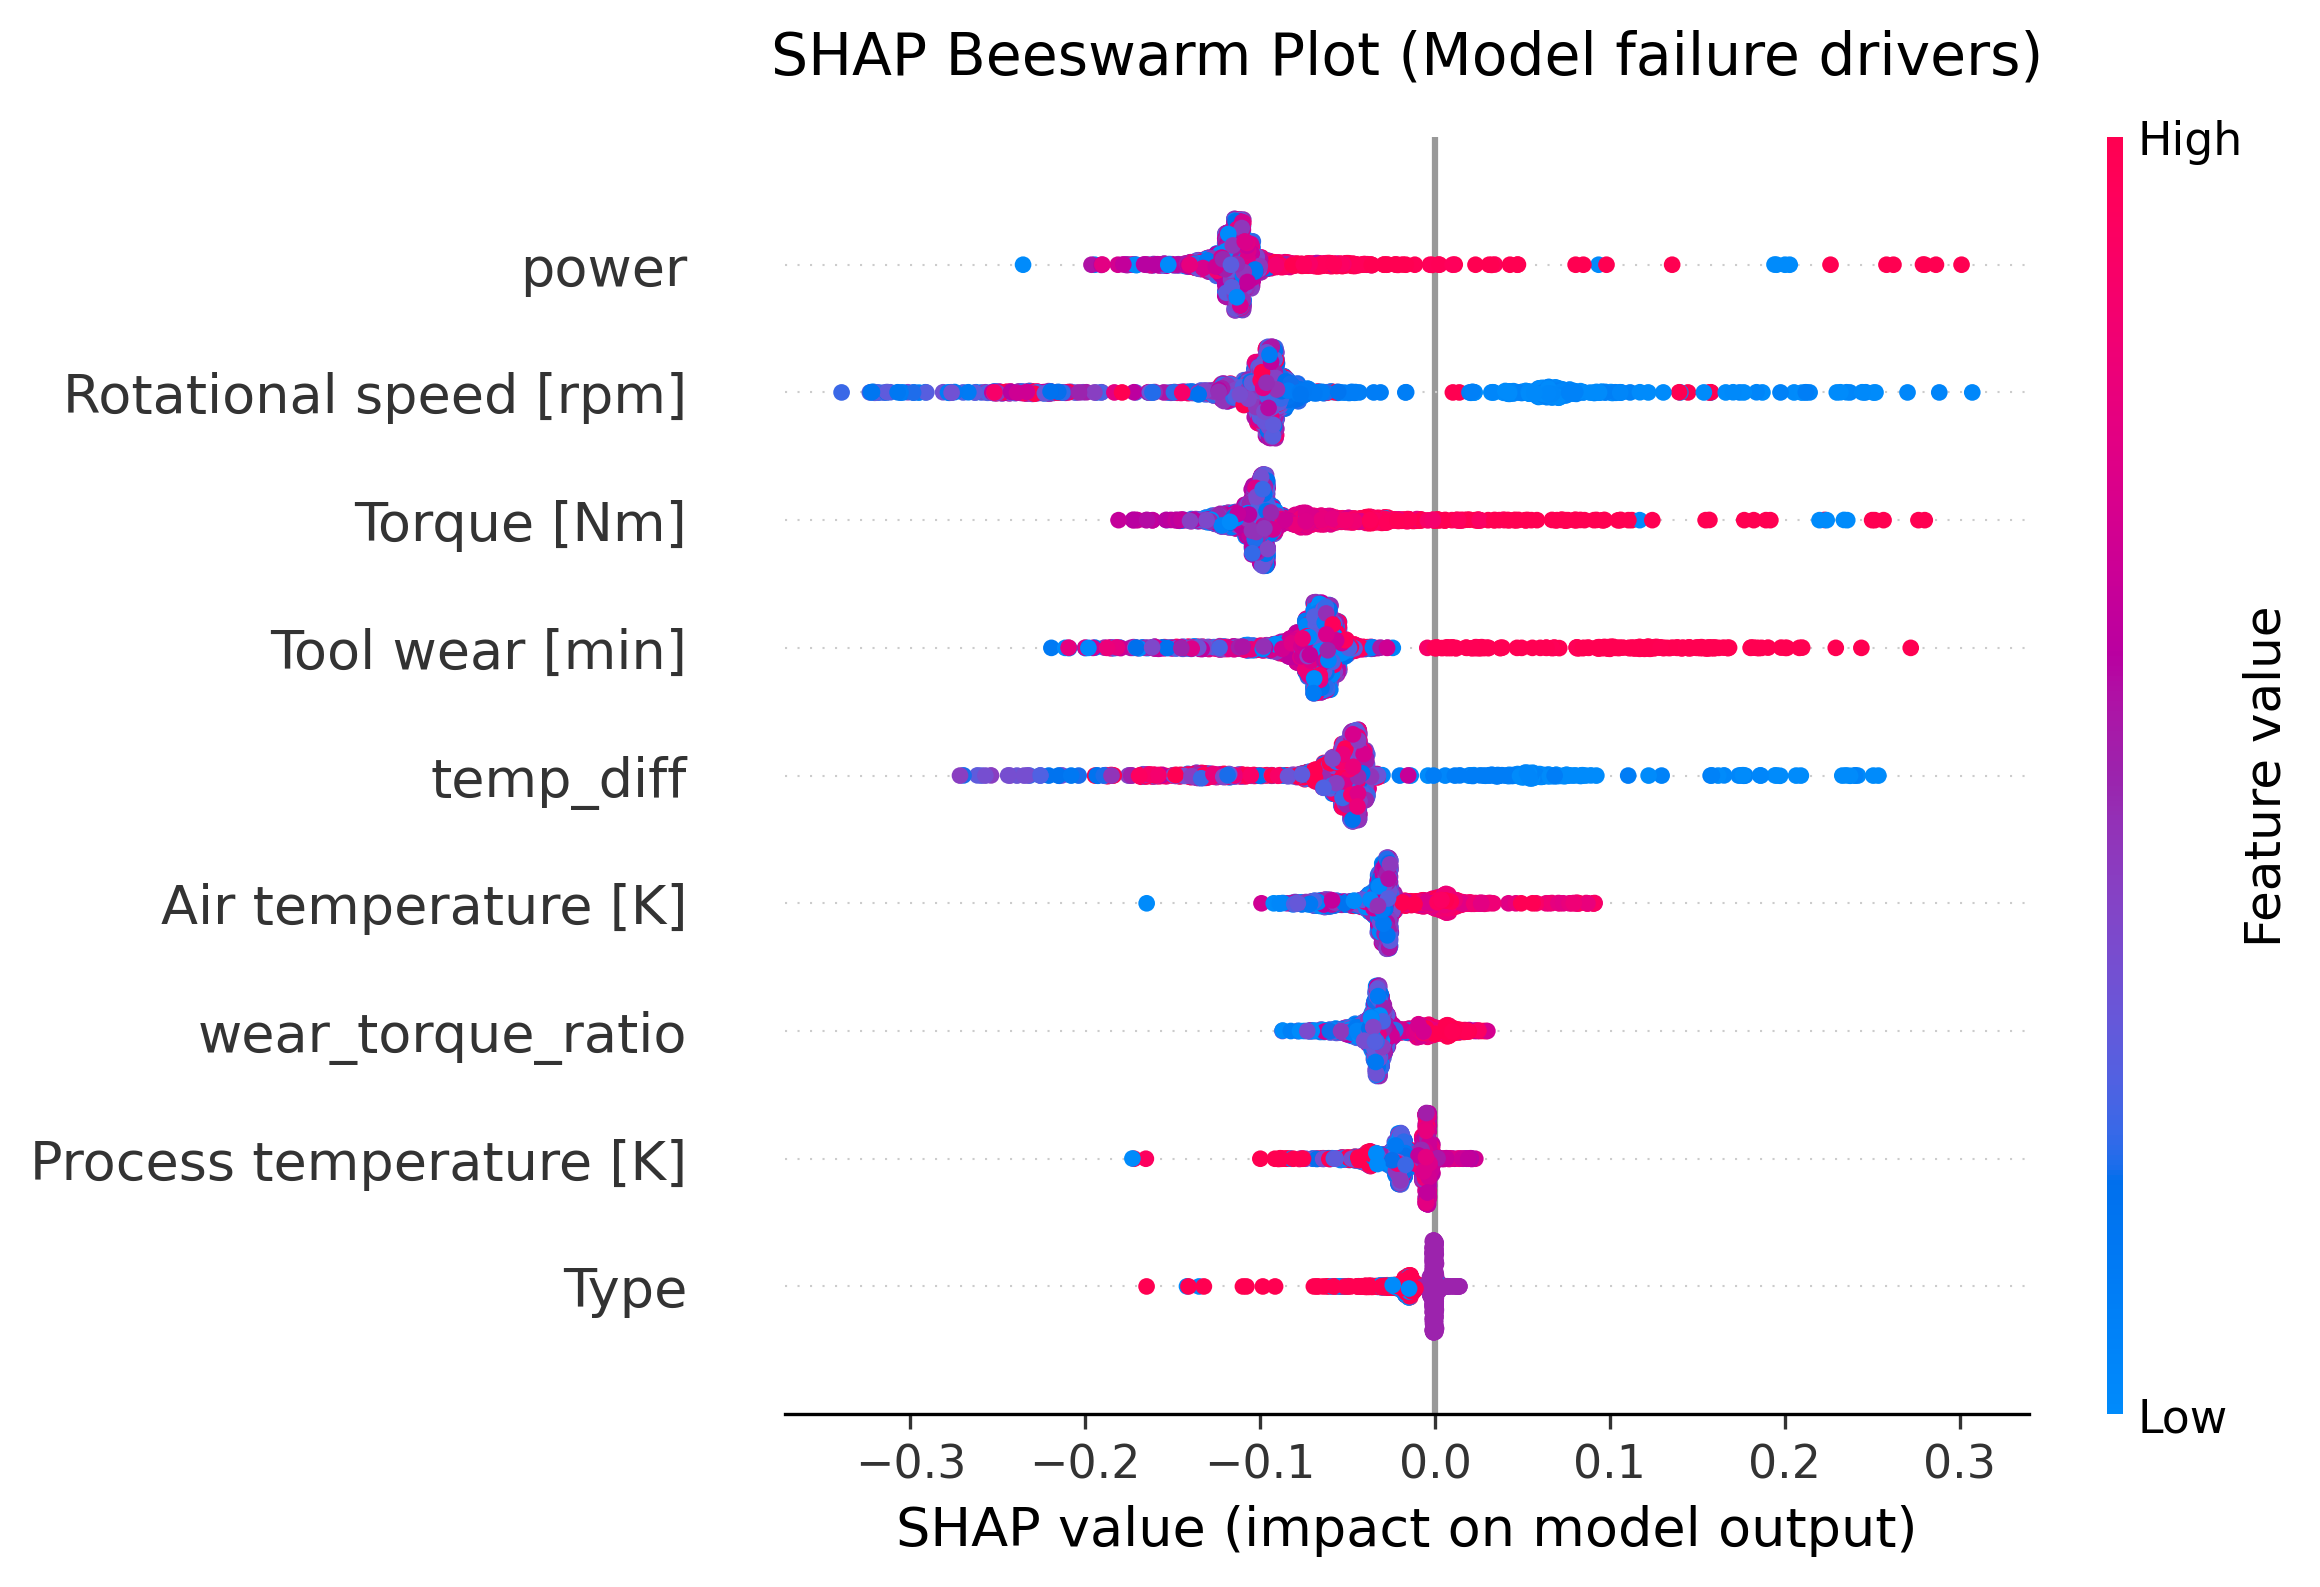
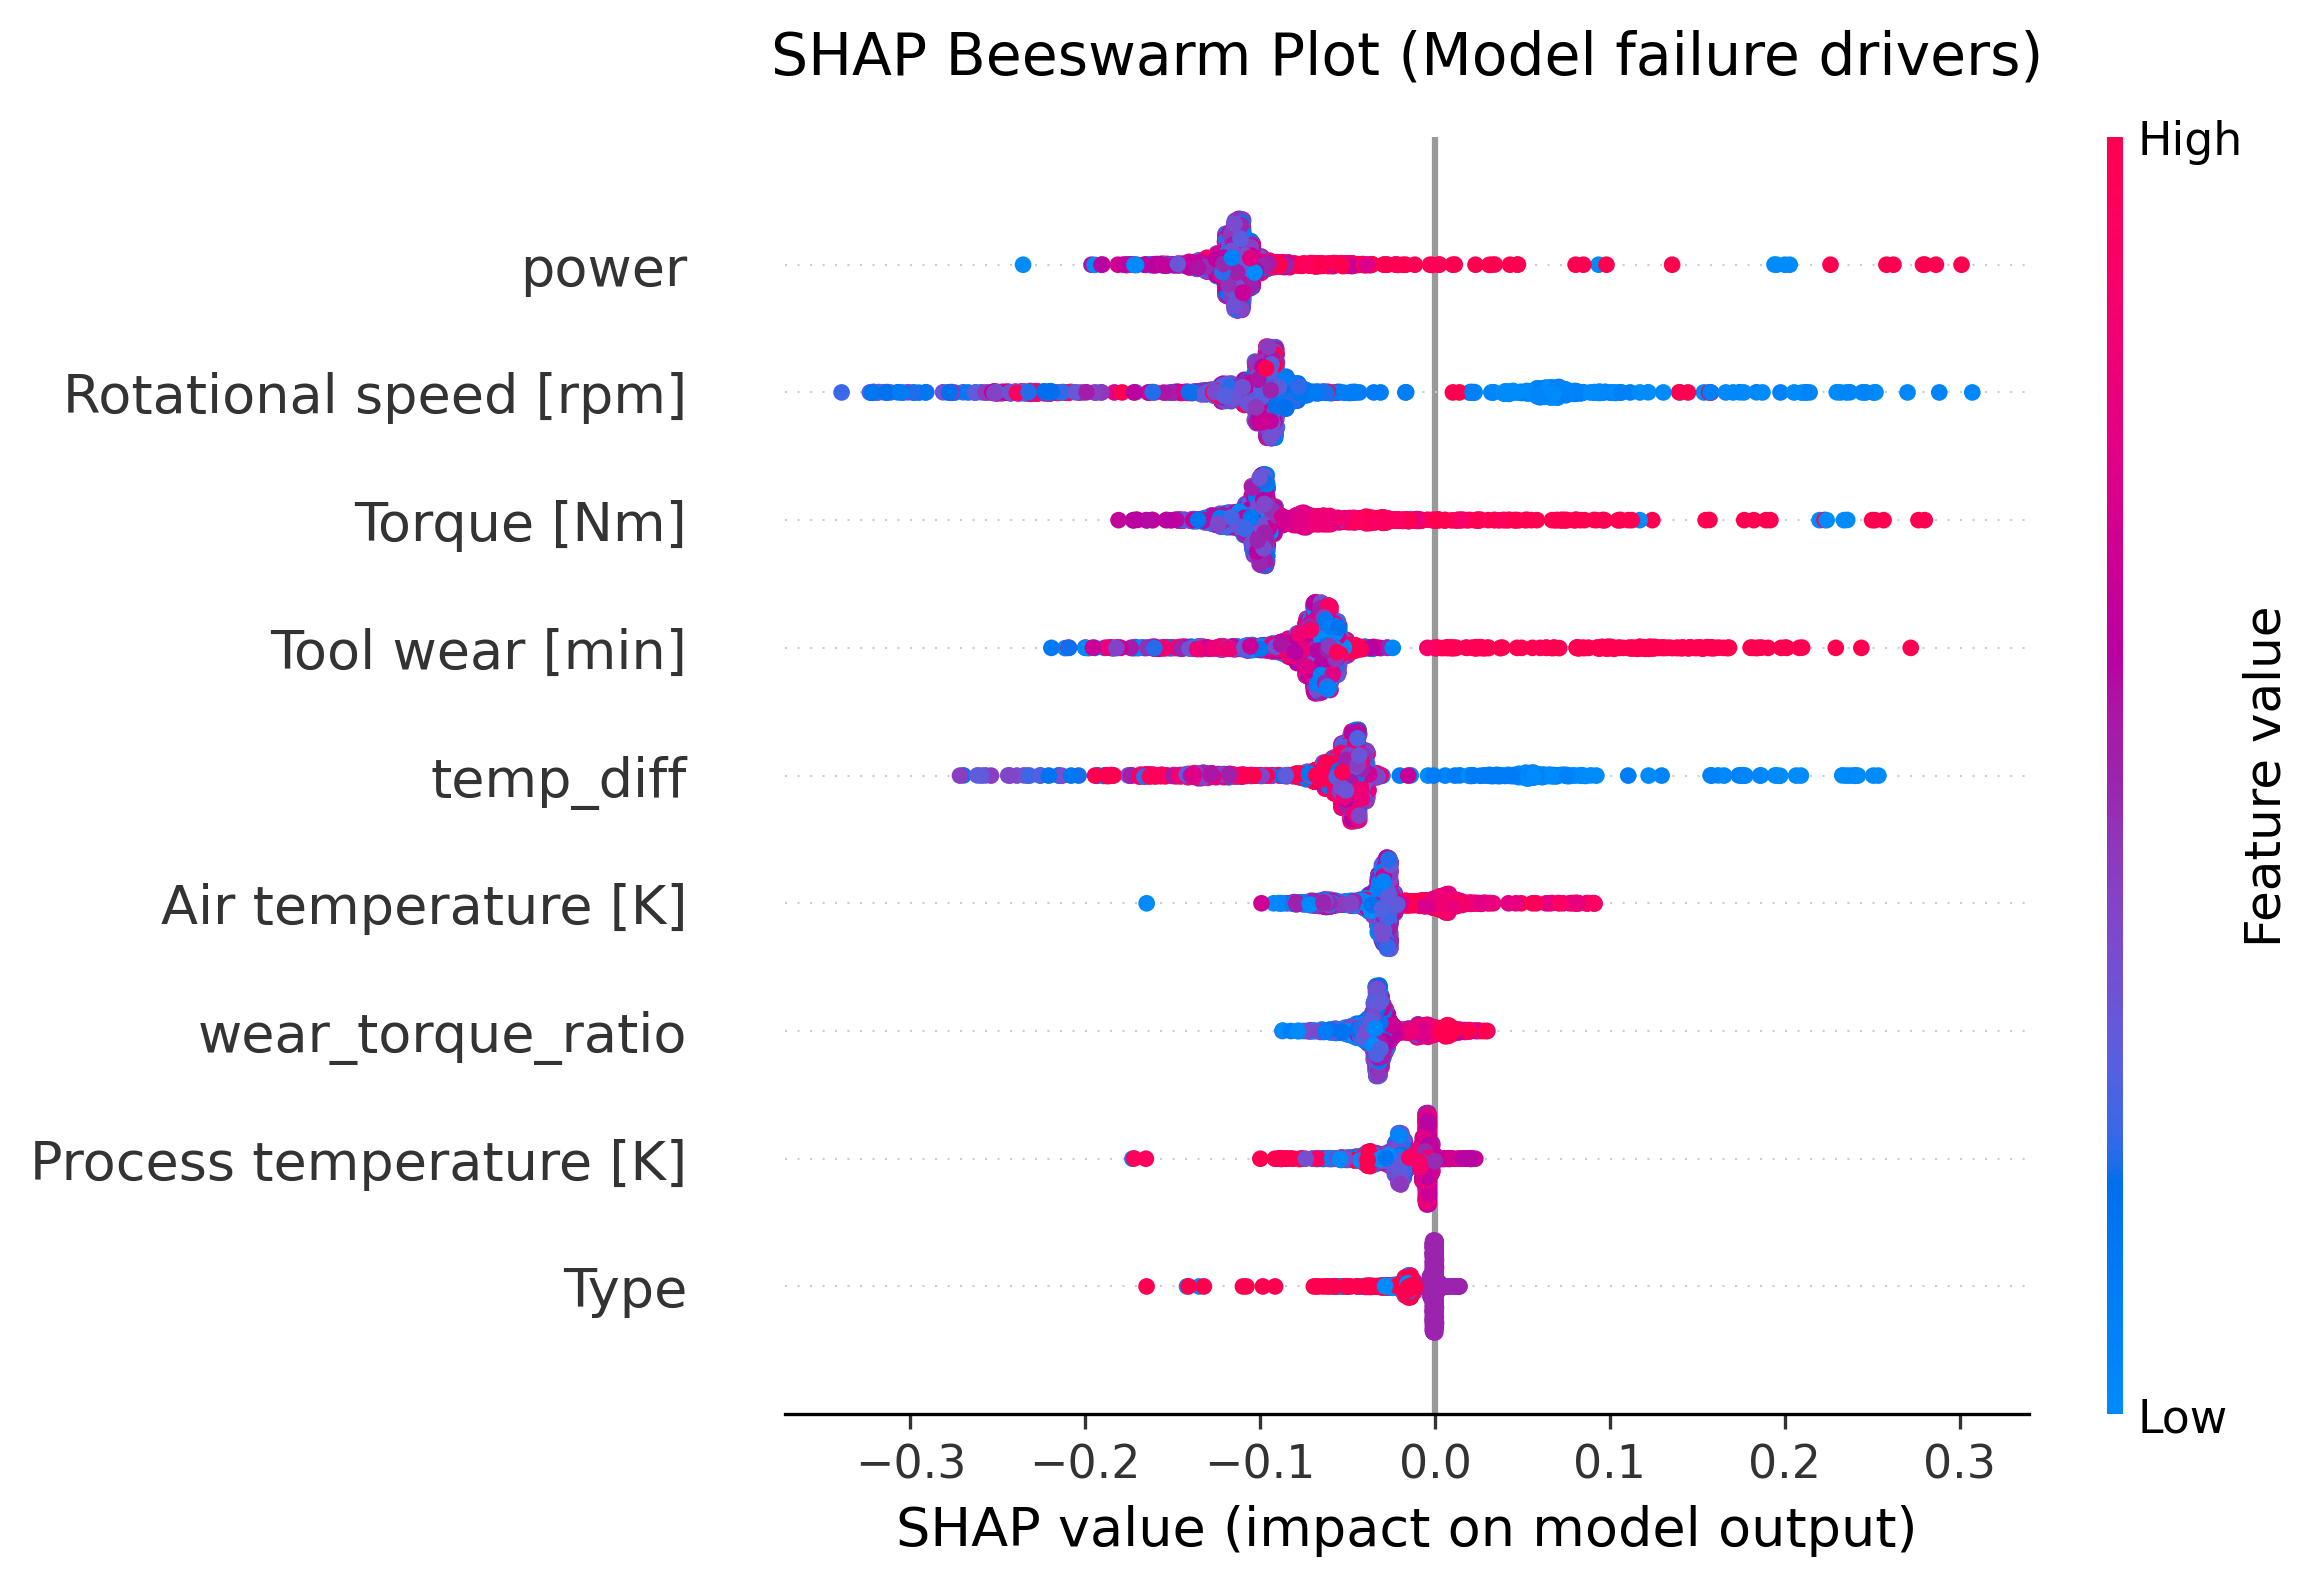
feat(runner): implement non-blocking headless startup for Streamlit with 5s delay and auto-browser opening

diff --git a/run_all.py b/run_all.py
@@ -21,8 +21,10 @@ Usage:
 
 import os
 import sys
+import time
 import shutil
 import subprocess
+import webbrowser
 
 def load_env_file():
     # Search for .env file in the current directory
@@ -99,19 +101,38 @@ def main():
     print("\n" + "=" * 60)
     print("opsFlow — Launching Streamlit UI...")
     print("=" * 60)
-    print("Opening at: http://localhost:8501")
-    print("Press Ctrl+C to stop the server.\n")
 
     try:
-        streamlit_process = subprocess.run(
+        streamlit_process = subprocess.Popen(
             [sys.executable, "-m", "streamlit", "run", "streamlit_app.py",
-             "--server.headless", "false",
-             "--browser.gatherUsageStats", "false"],
+             "--server.headless", "true",
+             "--browser.gatherUsageStats", "false",
+             "--server.port", "8501"],
             cwd=base_dir,
             env=os.environ.copy()
         )
+        
+        # Wait for Streamlit to fully start before opening browser
+        print("Starting Streamlit server", end="", flush=True)
+        for _ in range(5):
+            time.sleep(1)
+            print(".", end="", flush=True)
+        print(" Ready!")
+        
+        print("\n✅ Streamlit UI is running at: http://localhost:8501")
+        print("Press Ctrl+C to stop the server.\n")
+        
+        # Open browser automatically after server is ready
+        webbrowser.open("http://localhost:8501")
+        
+        # Keep run_all.py alive until user presses Ctrl+C
+        streamlit_process.wait()
+
     except KeyboardInterrupt:
-        print("\n[run_all.py] Streamlit server stopped. Goodbye!")
+        print("\n[run_all.py] Stopping Streamlit server...")
+        streamlit_process.terminate()
+        streamlit_process.wait()
+        print("[run_all.py] Server stopped. Goodbye!")
 
 if __name__ == "__main__":
     main()

diff --git a/streamlit_app.py b/streamlit_app.py
@@ -28,6 +28,13 @@ from src.logger import log_query
 from groq import Groq
 import streamlit as st
 
+st.set_page_config(
+    page_title="opsFlow Maintenance Assistant",
+    page_icon="🔧",
+    layout="wide",
+    initial_sidebar_state="expanded"
+)
+
 def load_env_file():
     """Loads environment variables from workspace root .env if present."""
     env_path = os.path.join(base_dir, ".env")
@@ -79,16 +86,6 @@ def load_pipeline():
         "reranker": reranker_model,
         "log_path": log_path
     }
-
-# ----------------------------------------------------
-# Page Configuration & Aesthetics
-# ----------------------------------------------------
-st.set_page_config(
-    page_title="opsFlow RAG Assistant",
-    page_icon="🔧",
-    layout="wide",
-    initial_sidebar_state="expanded"
-)
 
 # Custom premium styling rules using curated glassmorphic dark templates
 st.markdown(